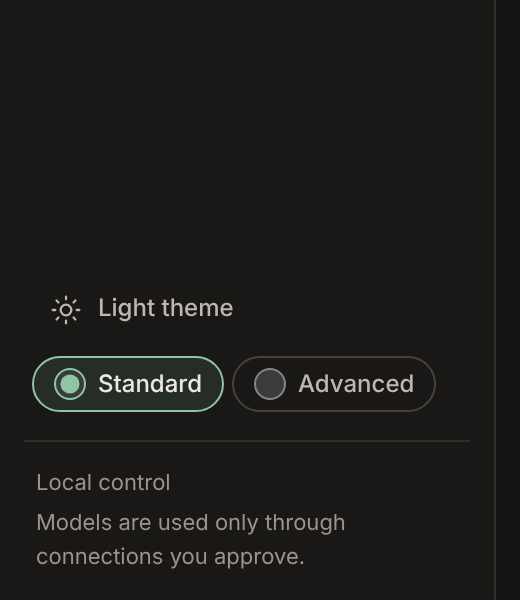
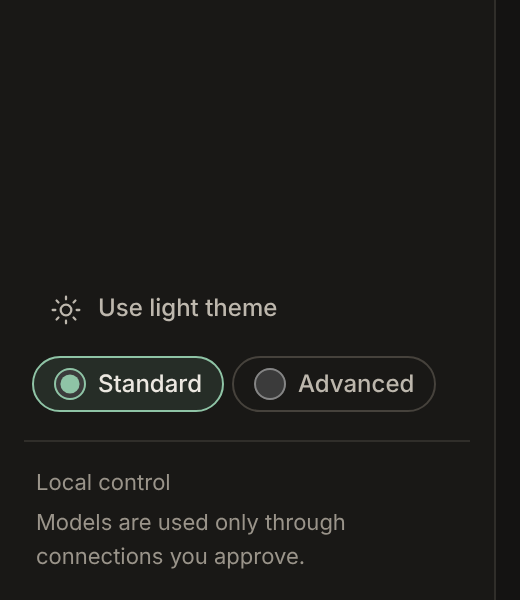
Review 1 of #214: theme button names its action, Back to top lines up with panel content
L-1: the sidebar theme button reads "Use light theme"/"Use dark theme"
instead of a state beside the view chips; the aria-label and title stay
only on the signed-out icon button. N-1: tracking notes state the checks.
N-2: Back to top keeps 24 px from the right, in line with the panel
content. N-3: the border sweep skips the closed usage popover and drops
an unused parameter; its outputs are kept.

Claude-Session: https://claude.ai/code/session_01JTbuZuAnM91S8Jr9wiV7vV

Changed region(s): [[0.1846, 0.48, 0.5538, 0.54]]

diff --git a/apps/web/src/main.tsx b/apps/web/src/main.tsx
@@ -909,20 +909,22 @@ function App() {
     window.addEventListener('keydown', close);
     return () => window.removeEventListener('keydown', close);
   }, [menuOpen]);
-  // In the studio it sits in the sidebar foot, so it never wraps onto its own topbar line.
+  // In the studio it sits in the sidebar foot, so it never wraps onto its own topbar line. There
+  // it names the action in words (review 1 of #214, L-1: not a state beside the view chips);
+  // signed out it is an icon, named by its aria-label and title.
+  const themeAction =
+    theme.theme === 'dark' ? 'Use light theme' : 'Use dark theme';
   const themeButton = (
     <button
       className={
         inStudio ? 'ghost theme-button' : 'ghost icon-button theme-button'
       }
       onClick={theme.toggle}
-      aria-label={theme.theme === 'dark' ? 'Use light theme' : 'Use dark theme'}
-      title={theme.theme === 'dark' ? 'Use light theme' : 'Use dark theme'}
+      aria-label={inStudio ? undefined : themeAction}
+      title={inStudio ? undefined : themeAction}
     >
       <Icon name={theme.theme === 'dark' ? 'sun' : 'moon'} />
-      {inStudio && (
-        <span>{theme.theme === 'dark' ? 'Light theme' : 'Dark theme'}</span>
-      )}
+      {inStudio && <span>{themeAction}</span>}
     </button>
   );
   return (

diff --git a/apps/web/src/style.css b/apps/web/src/style.css
@@ -3957,8 +3957,8 @@ details > summary {
   z-index: 12;
   display: flex;
   width: max-content;
-  /* Kept in from the right so it sits inside the page panel instead of on its right border. */
-  margin: 16px 16px 0 auto;
+  /* Kept in from the right so it lines up with the page panel's content, not on its border. */
+  margin: 16px 24px 0 auto;
   box-shadow: var(--shadow);
 }
 @media print {

diff --git a/tracking/evidence/ui-polish-borders/README.md b/tracking/evidence/ui-polish-borders/README.md
@@ -2,9 +2,11 @@
 
 Jordan's UI notes of 2026-11-15 (the Autopilot page is a separate thread). Checked on a throwaway fixture studio (ports 5183/4330/4340, throwaway PostgreSQL database, `pnpm cli seed-selection`), never the dev studio or the installed app.
 
-- **Sidebar foot.** The theme button (now with its name, "Light theme" or "Dark theme") sits above Standard/Advanced in `.sidebar-controls`; the divider moved down to sit above "Local control". `sidebar-foot-after.png`.
+- **Sidebar foot.** The theme button (now with its action in words, "Use light theme" or "Use dark theme") sits above Standard/Advanced in `.sidebar-controls`; the divider moved down to sit above "Local control". `sidebar-foot-after.png`.
 - **Top bar.** The Model and usage pills are `<details>` and took the global 14 px `details` top margin, so they sat about 7 px below the crumbs, connection and sign-in text. `.usage` now has no top margin; every item centres on the same line (measured: all at 25.5 px). `topbar-before.png`, `topbar-after.png`.
-- **Back to top.** Kept 16 px in from the right, so it sits inside the page panel instead of on its right border.
-- **Shared borders.** `border-sweep.mjs <standard|advanced>` (set `OPEN=1` to open every fold) lists bordered boxes and buttons that touch or overlap (gap -3 to 2 px) on all 26 tabs. Before: "Record this selection" on the "Why this response" box (Decide), "Refresh devices" on its "No paired devices." box (Devices), and, after an automatic assessment, "Assess again" on its run's state badge. A button on its own line in a panel, section, article or form now keeps 12 px from the block under it (element-only specificity, so a box with its own larger margin keeps it); the nested explanation panel and the assessment run keep 16 px. After: no touching pairs in either view with every fold open, apart from the closed top-bar usage popover, which the sweep counts but is not shown. `record-selection-after.png`, `assess-again-after.png`, `refresh-devices-after.png`.
+- **Back to top.** Kept 24 px in from the right, so it lines up with the page panel's content instead of sitting on its right border.
+- **Shared borders.** `border-sweep.mjs <standard|advanced>` (set `OPEN=1` to open every fold) lists bordered boxes and buttons that touch or overlap (gap -3 to 2 px) on all 26 tabs. Before: "Record this selection" on the "Why this response" box (Decide), "Refresh devices" on its "No paired devices." box (Devices), and, after an automatic assessment, "Assess again" on its run's state badge. A button on its own line in a panel, section, article or form now keeps 12 px from the block under it (element-only specificity, so a box with its own larger margin keeps it); the nested explanation panel and the assessment run keep 16 px. The sweep skips the closed top-bar usage popover (measured but not shown). After: 0 touching pairs in either view with every fold open. `record-selection-after.png`, `assess-again-after.png`, `refresh-devices-after.png`.
 
 The sweep only sees the throwaway studio's state (one fixture workspace with a recorded selection and one automatic assessment); screens that need other records were not checked.
+
+Checks (cloud, throwaway PostgreSQL 16): `pnpm typecheck` and `pnpm format:check` pass; `pnpm test:db` 1348 tests, 1314 pass, 29 skipped, 5 known PowerShell-wrapper failures (need Windows).

diff --git a/tracking/BUILD_STATUS.md b/tracking/BUILD_STATUS.md
@@ -2,7 +2,7 @@
 
 ## November 15 update — sidebar, borders and top bar polish (no migration or ADR)
 
-What now works: in the sidebar the theme button (named "Light theme"/"Dark theme") sits above Standard/Advanced, both above the divider, which now sits above "Local control"; the top bar's Model and usage pills line up with the other items (they had the global `details` top margin); Back to top sits 16 px in from the panel's right border; a button on its own line keeps 12 px from the box under it (fixes "Record this selection", "Assess again" and "Refresh devices" touching boxes). Evidence and the border sweep script: `tracking/evidence/ui-polish-borders/`. Web CSS and `main.tsx` only.
+What now works: in the sidebar the theme button (named by its action, "Use light theme"/"Use dark theme") sits above Standard/Advanced, both above the divider, which now sits above "Local control"; the top bar's Model and usage pills line up with the other items (they had the global `details` top margin); Back to top sits 24 px in from the panel's right border, in line with its content; a button on its own line keeps 12 px from the box under it (fixes "Record this selection", "Assess again" and "Refresh devices" touching boxes). Evidence and the border sweep script: `tracking/evidence/ui-polish-borders/`. Web CSS and `main.tsx` only. Checked in the cloud on a throwaway PostgreSQL 16 database: `pnpm typecheck` and `pnpm format:check` pass; `pnpm test:db` 1348 tests, 1314 pass, 29 skipped, 5 known PowerShell-wrapper failures; the border sweep reports 0 touching pairs on all 26 tabs in both views with folds open. Review 1 (1 Low, 3 nits) fixed.
 ## November 15 update — Windows web build fixed; packet A and H records (PR #212, no migration or ADR)
 
 What now works: `node apps/desktop/build-studio.mjs` builds on Windows again. PR #201's licence list walked up from each viewer library's entry comparing backslash paths against `/node_modules/`, reached the drive root and failed with `ENOENT C:\package.json`. The walk (`apps/web/src/package-root.ts`, used by `apps/web/vite.config.ts`) now works in forward slashes on every platform, keeps POSIX names with a backslash intact, and stops with a clear error instead of reading a drive root. On Linux the built `THIRD_PARTY_LICENSES.txt` is byte-identical before and after (23 packages). New test `tests/src/web-package-root.test.ts` runs the walk with Windows (drive, pnpm store, scoped, UNC) and POSIX path rules; the old code walked to `C:\` on the same input.
